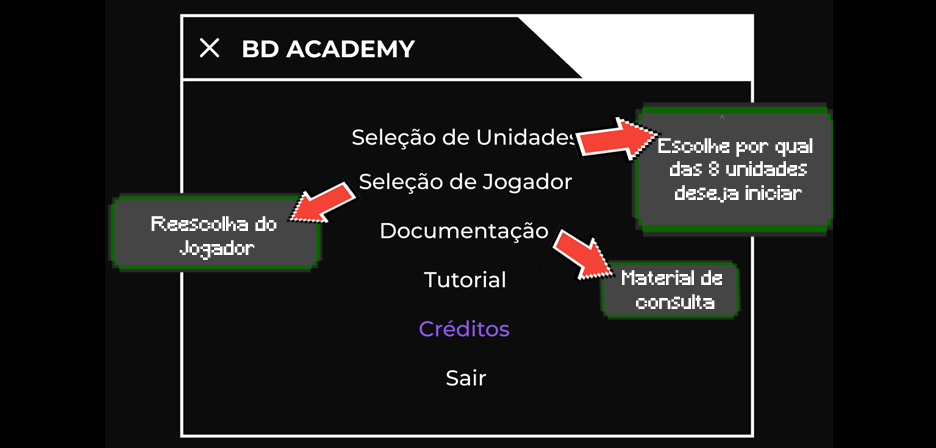
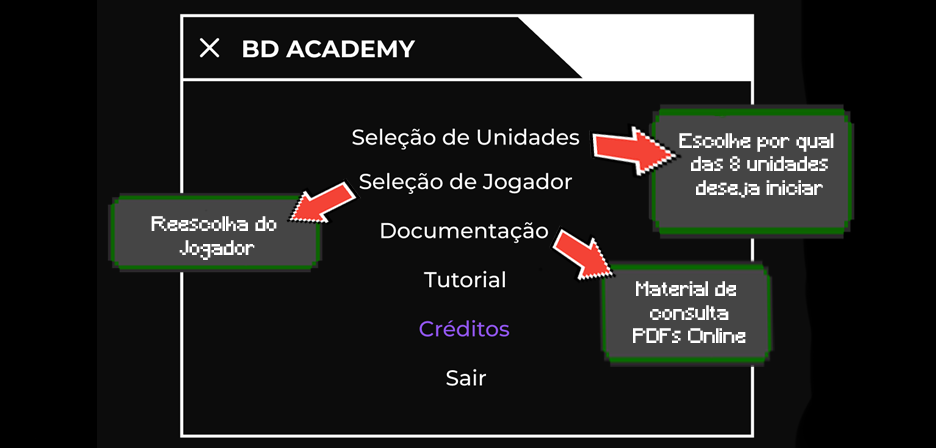
commit

Changed region(s): [[0.5887, 0.2188, 0.9295, 0.5312], [0.6197, 0.5625, 0.8365, 0.8438]]

diff --git a/src/main/java/com/mycompany/mavenproject1/Tutorial1Tela.java b/src/main/java/com/mycompany/mavenproject1/Tutorial1Tela.java
@@ -34,7 +34,7 @@ public class Tutorial1Tela extends javax.swing.JFrame {
         MenuIconPNG = new javax.swing.JButton();
         jLabel14 = new javax.swing.JLabel();
         jPanel3 = new javax.swing.JPanel();
-        jLabel1 = new javax.swing.JLabel();
+        TutorialTela1PNG = new javax.swing.JLabel();
 
         setDefaultCloseOperation(javax.swing.WindowConstants.EXIT_ON_CLOSE);
         addMouseListener(new java.awt.event.MouseAdapter() {
@@ -70,17 +70,17 @@ public class Tutorial1Tela extends javax.swing.JFrame {
         jLabel14.setHorizontalAlignment(javax.swing.SwingConstants.CENTER);
         jLabel14.setText("Clique para continuar");
 
-        jLabel1.setIcon(new javax.swing.ImageIcon("C:\\Users\\danie\\OneDrive - Colégio Santa Cruz\\Documentos\\NetBeansProjects\\ProjetoIntegradorS1\\src\\main\\java\\com\\mycompany\\mavenproject1\\Imagens\\TutorialTela1.png")); // NOI18N
+        TutorialTela1PNG.setIcon(new javax.swing.ImageIcon("C:\\Users\\danie\\OneDrive - Colégio Santa Cruz\\Documentos\\NetBeansProjects\\ProjetoIntegradorS1\\src\\main\\java\\com\\mycompany\\mavenproject1\\Imagens\\TutorialTela1.png")); // NOI18N
 
         javax.swing.GroupLayout jPanel3Layout = new javax.swing.GroupLayout(jPanel3);
         jPanel3.setLayout(jPanel3Layout);
         jPanel3Layout.setHorizontalGroup(
             jPanel3Layout.createParallelGroup(javax.swing.GroupLayout.Alignment.LEADING)
-            .addComponent(jLabel1, javax.swing.GroupLayout.DEFAULT_SIZE, javax.swing.GroupLayout.DEFAULT_SIZE, Short.MAX_VALUE)
+            .addComponent(TutorialTela1PNG, javax.swing.GroupLayout.DEFAULT_SIZE, javax.swing.GroupLayout.DEFAULT_SIZE, Short.MAX_VALUE)
         );
         jPanel3Layout.setVerticalGroup(
             jPanel3Layout.createParallelGroup(javax.swing.GroupLayout.Alignment.LEADING)
-            .addComponent(jLabel1, javax.swing.GroupLayout.DEFAULT_SIZE, javax.swing.GroupLayout.DEFAULT_SIZE, Short.MAX_VALUE)
+            .addComponent(TutorialTela1PNG, javax.swing.GroupLayout.DEFAULT_SIZE, javax.swing.GroupLayout.DEFAULT_SIZE, Short.MAX_VALUE)
         );
 
         javax.swing.GroupLayout jPanel2Layout = new javax.swing.GroupLayout(jPanel2);
@@ -201,7 +201,7 @@ public class Tutorial1Tela extends javax.swing.JFrame {
 
     // Variables declaration - do not modify//GEN-BEGIN:variables
     private javax.swing.JButton MenuIconPNG;
-    private javax.swing.JLabel jLabel1;
+    private javax.swing.JLabel TutorialTela1PNG;
     private javax.swing.JLabel jLabel14;
     private javax.swing.JPanel jPanel1;
     private javax.swing.JPanel jPanel2;

diff --git a/src/main/java/com/mycompany/mavenproject1/MenuPrincipalTela.java b/src/main/java/com/mycompany/mavenproject1/MenuPrincipalTela.java
@@ -4,6 +4,10 @@
  */
 package com.mycompany.mavenproject1;
 import java.awt.Color;
+import java.awt.Desktop;
+import java.io.File;
+import java.io.IOException;
+import java.net.URI;
 
 
 public class MenuPrincipalTela extends javax.swing.JFrame {
@@ -80,6 +84,9 @@ public class MenuPrincipalTela extends javax.swing.JFrame {
         documentacaoBotao.setHorizontalAlignment(javax.swing.SwingConstants.CENTER);
         documentacaoBotao.setText("Documentação");
         documentacaoBotao.addMouseListener(new java.awt.event.MouseAdapter() {
+            public void mouseClicked(java.awt.event.MouseEvent evt) {
+                documentacaoBotaoMouseClicked(evt);
+            }
             public void mouseEntered(java.awt.event.MouseEvent evt) {
                 documentacaoBotaoMouseEntered(evt);
             }
@@ -313,6 +320,20 @@ public class MenuPrincipalTela extends javax.swing.JFrame {
         setVisible(false);
         new Tutorial1Tela().setVisible(true);
     }//GEN-LAST:event_tutorialBotaoMouseClicked
+
+    private void documentacaoBotaoMouseClicked(java.awt.event.MouseEvent evt) {//GEN-FIRST:event_documentacaoBotaoMouseClicked
+        try {
+
+        URI uri= new URI("http://www.instanceofjava.com");
+
+        java.awt.Desktop.getDesktop().browse(uri);
+        System.out.println("Web page opened in browser");
+
+        } catch (Exception e) {
+
+        e.printStackTrace();
+  }
+    }//GEN-LAST:event_documentacaoBotaoMouseClicked
 
     /**
      * @param args the command line arguments
